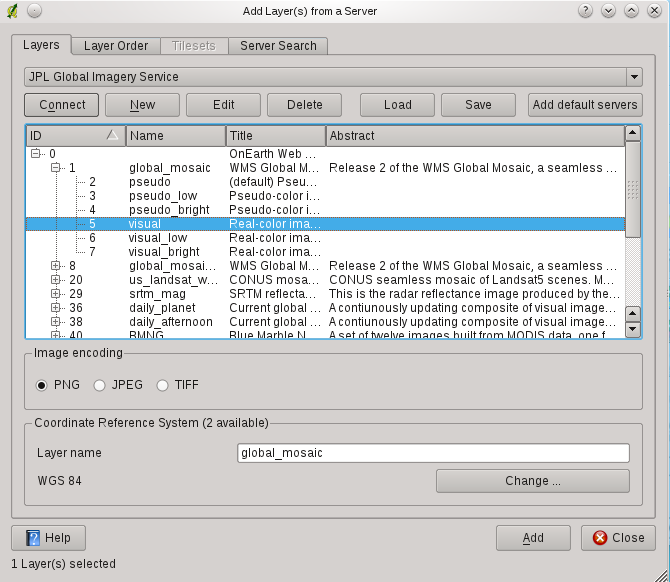
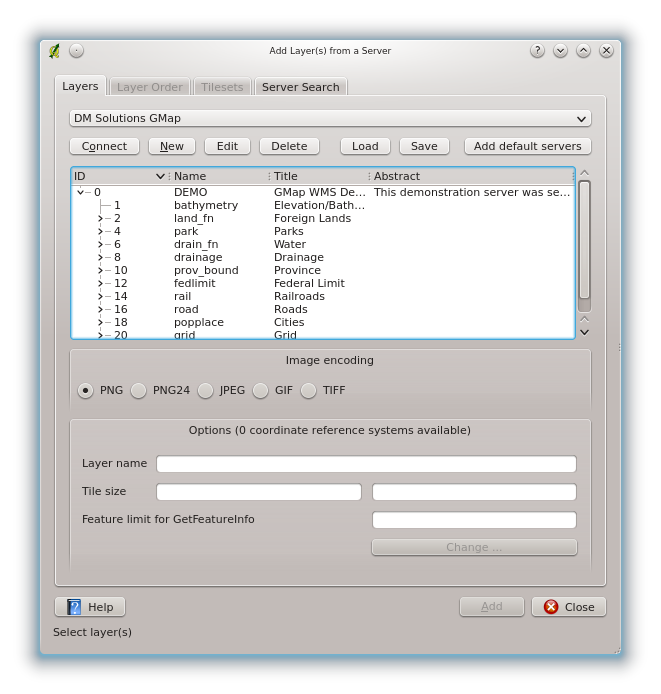
neuer snapshot WFS layer; update

diff --git a/source/docs/user_manual/working_with_ogc/ogc_client_support.rst b/source/docs/user_manual/working_with_ogc/ogc_client_support.rst
@@ -57,9 +57,7 @@ Overview of WMS Support
 
 QGIS currently can act as a WMS client that understands WMS 1.1, 1.1.1
 and 1.3 servers. It has particularly been tested against publicly
-accessible servers such as DEMIS and JPL OnEarth.
-
-.. NASA JPL OnEarth does not exist anymore
+accessible servers such as DEMIS.
 
 WMS servers act upon requests by the client (e.g. QGIS) for a raster map
 with a given extent, set of layers, symbolization style, and transparency.
@@ -162,7 +160,7 @@ in the left bottom of the WMS Plugin dialog.
 .. following should be replaced in 1.8 with the response of de DM Solutions Group
 
 Your screen should now look a bit like figure_OGR_1_, which
-shows the response provided by the NASA JPL OnEarth WMS server.
+shows the response provided by the DM Solutions Group WMS server.
 
 .. _figure_OGR_1:
 
@@ -199,17 +197,22 @@ requirements.
 **Options**
 
 
-The Options field provides a text-field where you can add a layer name
+The Options field provides a text-field where you can add a :guilabel:`Layer name`
 for the WMS-layer. This name will be presented in the legend after loading
 the layer.
 
-Below the layer name you find the default projection, provided by the
-mapserver. If the **[Change...]** button is active, you can click
+Below the layer name you find the :guilabel:`Tile size`, which makes it possible to
+produce rasters with a high resolution for e.g. printing purposes.
+
+The :guilabel:`Feature limit for GetFeatureInfo` defines what features from
+the server to query.
+
+If you select a WMS from the list a field with the default projection, provided by the
+mapserver, appears. If the **[Change...]** button is active, you can click
 on it and change the default projection of the WMS to another CRS,
 provided by the WMS server.
 
 **Layer Order**
-
 
 The tab :guilabel:`Layer Order` lists the selected layers available from the
 current connected WMS server. You may notice that some layers are expandable,
@@ -232,8 +235,8 @@ and transmitted to QGIS in one go.
 **Transparency**
 
 
-In this version of QGIS, the transparency setting is hard-coded to be
-always on, where available.
+In this version of QGIS, the :guilabel:`Global transparency` setting from the :guilabel:`Layer Properties`
+is hard-coded to be always on, where available.
 
 .. index:: WMS_layer_transparency
 
@@ -321,7 +324,7 @@ Tilesets
 
 When using WMS-C (Cached WMS) Services like
 http://labs.metacarta.com/wms-c/Basic.py you are able to browse through
-the tab :guilabel:`Tiles` given by the server. Additional information like
+the tab :guilabel:`Tilesets` given by the server. Additional information like
 tile size, formats and supported CRS are listed in this table.
 
 In combination with this feature you can use the tile scale slider from
@@ -423,16 +426,12 @@ of QGIS. Some of the more notable exceptions follow.
 
 **Editing WMS Layer Settings**
 
-
-
 Once you've completed the |mActionAddWmsLayer| :sup:`Add WMS layer`
 procedure, there is no ability to change the settings.
 
 A workaround is to delete the layer completely and start again.
 
 **WMS Servers Requiring Authentication**
-
-
 
 Currently public accessible and secured WMS-services are supported.
 The secured WMS-servers can be accessed by public authentication. You
